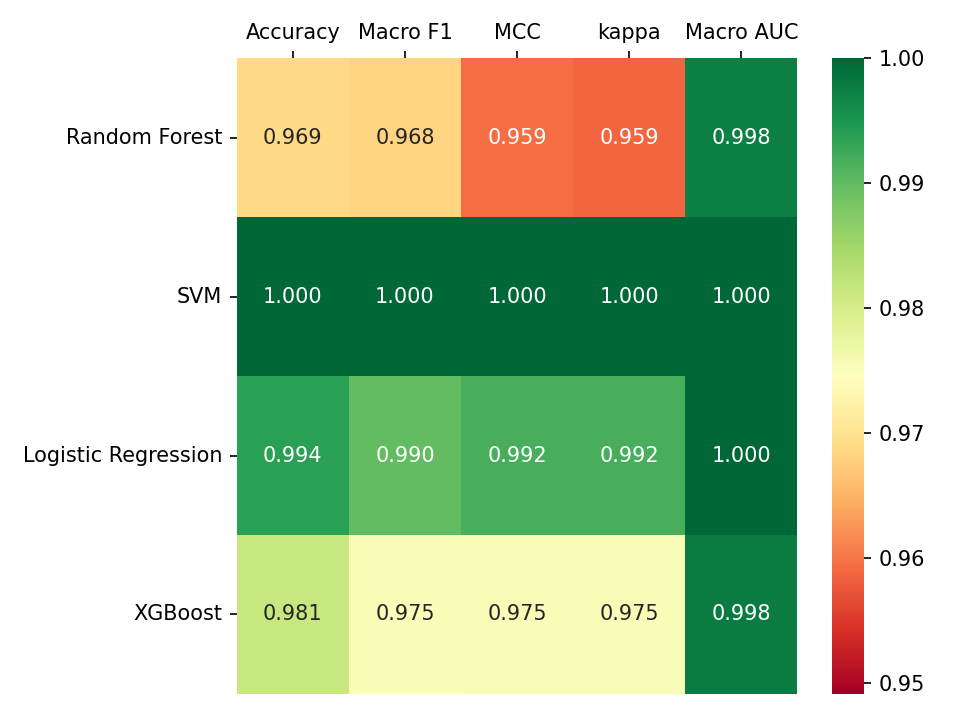
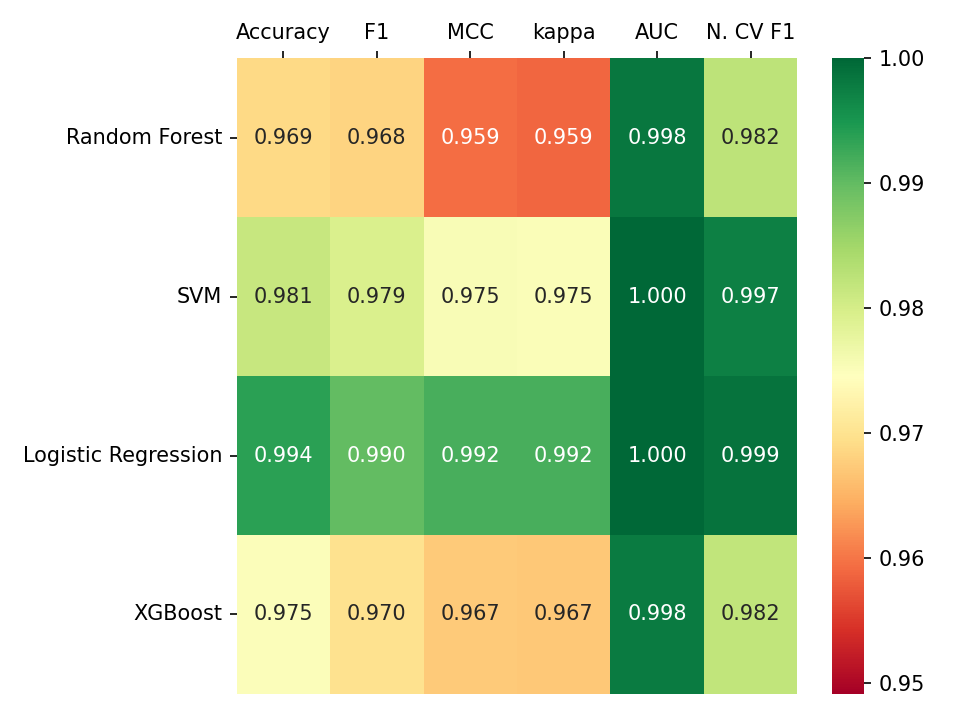
Feat: Add optional nested cross-validation and update README

diff --git a/scripts/compare_models.py b/scripts/compare_models.py
@@ -1,71 +1,90 @@
+"""
+Compares all trained models by aggregating metrics, training time, AUC,
+and optionally nested CV scores into a summary CSV, barplot, and heatmap.
+"""
+ 
 import pandas as pd
 import matplotlib.pyplot as plt
 import seaborn as sns
 from pathlib import Path
-
-#list with names of metrics to compare
+ 
+# list with names of metrics to compare
 metrics = ["accuracy", "macro avg", "mcc", "kappa"]
-
-#iterate over all models, get metrics, the time benchmark and macro AUC
+ 
+# get nested_cv evaluation if exists
+nested_cv_files = snakemake.input.get("nested_cv", [])
+ 
+# iterate over all models, get metrics, the time benchmark and macro AUC
 rows = []
-for model, bench, roc in zip(snakemake.input.reports, snakemake.input.bench, snakemake.input.roc):
+for model, bench, roc, ncv in zip(
+    snakemake.input.reports,
+    snakemake.input.bench,
+    snakemake.input.roc,
+    nested_cv_files or [None] * len(snakemake.input.reports)
+    ):
     model_name = Path(model).stem.replace("_report", "")
-    tmp = pd.read_csv(model, index_col =0)
-    row = tmp.loc[metrics,["f1-score"]].T
+    tmp = pd.read_csv(model, index_col=0)
+    row = tmp.loc[metrics, ["f1-score"]].T
     row.index = [model_name]
-    #add training time from benchmark file
-    row["train time"] = pd.read_csv(bench,sep="\t")["s"].item()
-    #compute macro AUC by averaging AUC across classes
+ 
+    # add training time from benchmark file
+    row["train time"] = pd.read_csv(bench, sep="\t")["s"].item()
+ 
+    # compute macro AUC by averaging AUC across classes
     row["auc_macro"] = pd.read_csv(roc).groupby("class")["auc"].first().mean()
+ 
+    if ncv:
+        ncv_df = pd.read_csv(ncv)
+        row["nested_cv"] = ncv_df["mean"].item()
     rows.append(row)
-    
-#create summary dataframe with all models and save to file
+ 
+# create summary dataframe with all models and save to file
 df_summary = pd.concat(rows).rename(
     columns={
         "accuracy": "Accuracy",
-        "macro avg": "Macro F1",
+        "macro avg": "F1",
         "mcc": "MCC",
-        "auc_macro": "Macro AUC"
+        "kappa": "Kappa",
+        "auc_macro": "AUC",
+        "nested_cv": "N. CV F1"
     },
     index={
         "randomforest": "Random Forest",
         "svm": "SVM",
         "logistic_regression": "Logistic Regression",
-        "xgboost": "XGBoost"    
+        "xgboost": "XGBoost"
     }
 )
-
 df_summary.round(3).to_csv(snakemake.output.summary)
-
-#dataframes for plots without kappa and train time
-df_barplot = df_summary.drop(columns = ["kappa", "train time"])
-
-#create long format for grouped barplot
+ 
+# dataframes for plots without kappa and train time
+df_barplot = df_summary.drop(columns=["kappa", "train time"])
+ 
+# create long format for grouped barplot
 df_long = df_barplot.reset_index(names="model").melt(id_vars="model", var_name="metric", value_name="value")
-
-#plot and save grouped barplot with models and metrics
+ 
+# plot and save grouped barplot with models and metrics
 ax = sns.barplot(data=df_long, x="model", y="value", hue="metric", gap=.1)
-plt.ylim([0,1.45])
+plt.ylim([0, 1.45])  # extra space for legend above bars
 plt.xlabel("Model")
 plt.ylabel("Value")
 ax.legend(title="Metric")
 plt.tight_layout()
-plt.savefig(snakemake.output.plot, dpi= 150)
+plt.savefig(snakemake.output.plot, dpi=150)
 plt.close()
-
-#plot and save heatmap with metrics annotated with values
+ 
+# plot and save heatmap with metrics annotated with values
 plt.figure()
 ax = sns.heatmap(
     df_summary.drop(columns=["train time"]),
-    annot=True,          
+    annot=True,
     fmt=".3f",
     cmap="RdYlGn",
-    vmin=df_summary.drop(columns=["train time"]).min().min() * 0.99,
-    vmax=1.0   
+    vmin=df_summary.drop(columns=["train time"]).min().min() * 0.99,  # slightly below minimum for better contrast
+    vmax=1.0
 )
-
 ax.xaxis.tick_top()
 ax.xaxis.set_label_position('top')
 plt.tight_layout()
-plt.savefig(snakemake.output.heat, dpi = 150)
+plt.savefig(snakemake.output.heat, dpi=150)
 plt.close()

diff --git a/scripts/tune_models.py b/scripts/tune_models.py
@@ -1,3 +1,9 @@
+"""
+Hyperparameter tuning via GridSearchCV for the model specified by the
+Snakemake wildcard {model}. If tuning is disabled in the config, falls
+back to default parameters. Best parameters are saved as JSON.
+"""
+ 
 import pandas as pd
 import json
 from sklearn.pipeline import Pipeline
@@ -8,36 +14,36 @@ from sklearn.ensemble import RandomForestClassifier
 from sklearn.linear_model import LogisticRegression
 from sklearn.svm import SVC
 from xgboost import XGBClassifier
-
+ 
 if snakemake.params.tune:
-    #load data
+    # load data
     X_train = pd.read_csv(snakemake.input.X_train, index_col=0)
     y_train = pd.read_csv(snakemake.input.y_train, index_col=0)['Class']
-
-    #arrange dictionary with models
+ 
+    # arrange dictionary with models
     MODELS = {
         "randomforest": RandomForestClassifier(random_state=snakemake.params.seed),
         "logistic_regression": LogisticRegression(random_state=snakemake.params.seed),
         "svm": SVC(probability=True, random_state=snakemake.params.seed),
         "xgboost": XGBClassifier(random_state=snakemake.params.seed)
     }
-
-    #get current model and use respective model for grid search
+ 
+    # get current model and use respective model for grid search
     model_name = snakemake.wildcards.model
     estimator = MODELS[model_name]
-
-    #get grid parameters and add clf prefix
+ 
+    # get grid parameters and add "clf__" so GridSearchCV can route params through the pipeline
     raw_grid = snakemake.params.param_grid
     param_grid = {f"clf__{k}": v for k, v in raw_grid.items()}
-
-    #create pipeline with scaling and PCA to avoid data leakage in grid search
+ 
+    # create pipeline with scaling and PCA to avoid data leakage in grid search
     pipe = Pipeline([
         ('scaler', StandardScaler()),
         ('pca', PCA(n_components=snakemake.params.n_components)),
         ('clf', estimator)
     ])
-
-    #perform grid search and fit model
+ 
+    # perform grid search and fit model
     search = GridSearchCV(
         pipe,
         param_grid=param_grid,
@@ -45,17 +51,18 @@ if snakemake.params.tune:
         scoring="roc_auc_ovr",
         n_jobs=snakemake.threads)
     search.fit(X_train, y_train)
-
+ 
     with open(snakemake.log[0], 'w') as log:
-        log.write(f'Best parameters{search.best_params_}\n')
-        log.write(f'Mean ROC-AUC for all 5 folds {search.best_score_}\n')
-
-    #remove prefix
+        log.write(f'Best parameters: {search.best_params_}\n')
+        log.write(f'Mean ROC-AUC for all 5 folds: {search.best_score_}\n')
+ 
+    # remove "clf__" prefix from parameter keys before saving
     best_params = {k.replace("clf__", ""): v for k, v in search.best_params_.items()}
-
-else: 
+ 
+else:
+    # if tuning is disabled in config, use default parameters
     best_params = snakemake.params.default_grid
-
-#store best parameters as json
+ 
+# store best parameters as json
 with open(snakemake.output.best_params, 'w') as f:
     json.dump(best_params, f)

diff --git a/scripts/nested_cv.py b/scripts/nested_cv.py
@@ -1,0 +1,74 @@
+"""
+Nested cross-validation for hyperparameter tuning and model evaluation.
+Runs an inner GridSearchCV (3-fold) for hyperparameter selection and an
+outer StratifiedKFold (5-fold) for unbiased performance estimation.
+Called per model via Snakemake wildcard {model}.
+"""
+ 
+import pandas as pd
+from sklearn.pipeline import Pipeline
+from sklearn.preprocessing import StandardScaler
+from sklearn.decomposition import PCA
+from sklearn.model_selection import GridSearchCV, StratifiedKFold, cross_val_score
+from sklearn.ensemble import RandomForestClassifier
+from sklearn.linear_model import LogisticRegression
+from sklearn.svm import SVC
+from xgboost import XGBClassifier
+ 
+# create inner and outer cross validation with 3 and 5 splits respectively
+outer_cv = StratifiedKFold(n_splits=5, shuffle=True, random_state=snakemake.params.seed)
+inner_cv = StratifiedKFold(n_splits=3, shuffle=True, random_state=snakemake.params.seed)
+ 
+# load data
+X_train = pd.read_csv(snakemake.input.X_train, index_col=0)
+y_train = pd.read_csv(snakemake.input.y_train, index_col=0)['Class']
+ 
+# arrange dictionary with models
+MODELS = {
+    "randomforest": RandomForestClassifier(random_state=snakemake.params.seed),
+    "logistic_regression": LogisticRegression(random_state=snakemake.params.seed),
+    "svm": SVC(probability=True, random_state=snakemake.params.seed),
+    "xgboost": XGBClassifier(random_state=snakemake.params.seed)
+}
+ 
+# get current model and use respective model for grid search
+model_name = snakemake.wildcards.model
+estimator = MODELS[model_name]
+ 
+# get grid parameters and add "clf__" so GridSearchCV can route params through the pipeline
+raw_grid = snakemake.params.param_grid
+param_grid = {f"clf__{k}": v for k, v in raw_grid.items()}
+ 
+# create pipeline with scaling and PCA to avoid data leakage in grid search
+pipe = Pipeline([
+    ('scaler', StandardScaler()),
+    ('pca', PCA(n_components=snakemake.params.n_components)),
+    ('clf', estimator)
+])
+ 
+# perform grid search and fit model
+inner = GridSearchCV(
+    pipe,
+    param_grid=param_grid,
+    cv=inner_cv,
+    scoring="f1_macro",
+    n_jobs=1  # parallelism is handled by the outer cross_val_score
+    )
+ 
+outer_scores = cross_val_score(
+    inner,
+    X_train,
+    y_train,
+    cv=outer_cv,
+    scoring="f1_macro",
+    n_jobs=snakemake.threads)
+ 
+# write outer CV scores to log and save summary CSV for comparison
+with open(snakemake.log[0], 'w') as log:
+    log.write(f'Mean f1-macro: {outer_scores.mean():.3f}\n')
+    log.write(f'Std f1-macro: {outer_scores.std():.3f}\n')
+ 
+pd.DataFrame({
+    "mean": [outer_scores.mean()],
+    "std": [outer_scores.std()]
+}).to_csv(snakemake.output.nested_cv_score, index=False)

diff --git a/scripts/evaluate_metrics.py b/scripts/evaluate_metrics.py
@@ -13,8 +13,7 @@ y_pred = pd.read_csv(snakemake.input.y_pred, index_col=0)['y_pred']
 y_proba = pd.read_csv(snakemake.input.y_proba, index_col=0).values # numpy array for sklearn
 
 #load model
-loaded = joblib.load(snakemake.input.model)
-model = loaded
+model = joblib.load(snakemake.input.model)
 classes = model.classes_
 
 #create and save report of metrics

diff --git a/readme.md b/readme.md
@@ -1,11 +1,14 @@
 # Cancer Type Classification from Gene Expression
-
+![Snakemake](https://img.shields.io/badge/snakemake-≥9.11-brightgreen)
+![Python](https://img.shields.io/badge/python-3.11-blue)
+![License](https://img.shields.io/badge/license-MIT-lightgrey)
 ## Overview
 This project demonstrates a fully reproducible RNA-seq analysis pipeline using Snakemake for cancer type classification based on gene expression data.
 - automated preprocessing, PCA and model training pipeline
 - training and evaluation of multiple machine learning models
-- automated and reproducible pipeline execution
 - optional hyperparameter tuning via GridSearchCV
+- optional nested cross-validation for unbiased model evaluation
+- automated and reproducible pipeline execution
 
 ## Background
 Cancer is one of the leading causes of death worldwide, with 10 million deaths in 2022 according to the WHO. Among the most common types of cancer are lung, breast, colon and rectum and prostate cancers [1]. 
@@ -55,11 +58,14 @@ The models are compared across the following metrics using a One-vs-Rest strateg
 - Cohen's Kappa
 - Macro Area under the Curve (AUC)
 
+### Nested Cross-Validation
+In addition to the standard train/test evaluation, the pipeline optionally supports nested cross-validation (nested CV) for a more robust and less biased estimate of generalisation performance. Nested CV uses an outer loop to estimate test performance and an inner loop for hyperparameter tuning, preventing information leakage between model selection and evaluation. This is particularly useful when comparing models on a limited dataset, as it provides a more realistic estimate of how well each model would generalise to unseen data. Nested CV can be enabled in the config file via `run_nested_cv: true`.
+
 ### Rule graph of Snakemake workflow
 ![DAG](plots/rulegraph.png)
 
 ## Results
-After hyperparameter tuning, all models performed well, with an accuracy of 0.97 or above and Macro AUC scores of 0.998 or above across all models. SVM achieved perfect scores across all metrics, while Logistic Regression and XGBoost showed slightly lower but strong performance. Random Forest performed comparably but slightly below the other models. The high performance across all models suggests that the five cancer types are well-separable in gene expression space, which is consistent with the clear cluster structure visible in the PCA plot. The strong scores likely reflect the separability of the PCA-reduced data rather than overfitting, given the small number of components. As this is a single dataset without external validation, results should be interpreted with caution.
+After hyperparameter tuning, all models achieved strong performance across all metrics. Logistic Regression achieved the highest performance on the hold-out test set (accuracy 0.994, Macro F1 0.990), closely followed by SVM (accuracy 0.981). Random Forest and XGBoost performed slightly below, though all models exceeded 0.96 across all metrics. Nested cross-validation F1 scores (see [Nested Cross-Validation](#nested-cross-validation)) are closely aligned with hold-out performance across all models, suggesting that the results are robust and not an artefact of a favourable train/test split. The high performance across all models reflects the strong separability of the five cancer types in gene expression space, consistent with the distinct cluster structure visible in the PCA plot. As this is a single dataset without external validation, results should be interpreted with caution.
 
 ### PCA of Gene Expression Profiles
 ![PCA](plots/pca_plot.png)
@@ -80,7 +86,7 @@ Despite PC1 and PC2 explaining only 10.0% and 8.1% of the total variance respect
 
 Clone the repository and navigate to the project directory:
 ```bash
-git clone https://github.com/shmuen/rna-seq
+git clone https://github.com/xx/rna-seq
 cd rna-seq
 ```
 
@@ -90,7 +96,14 @@ snakemake --cores N --use-conda
 ```
 Replace `N` with the number of cores to use.
 
-Hyperparameter tuning is optional and has to be enabled in the config file.
+Hyperparameter tuning as well as nested cross-validation is optional and can be enabled independently in the config file:
+
+```yaml
+tuning:
+  enabled: true   # enable hyperparameter tuning via GridSearchCV
+
+run_nested_cv: true  # enable nested cross-validation for unbiased performance estimates
+```
 
 ## References
 [1] Ferlay J, Ervik M, Lam F, Colombet M, Mery L, Piñeros M, et al. Global Cancer Observatory: Cancer Today. Lyon: International Agency for Research on Cancer; 2022 (https://gco.iarc.fr/today, accessed April 2026). 
